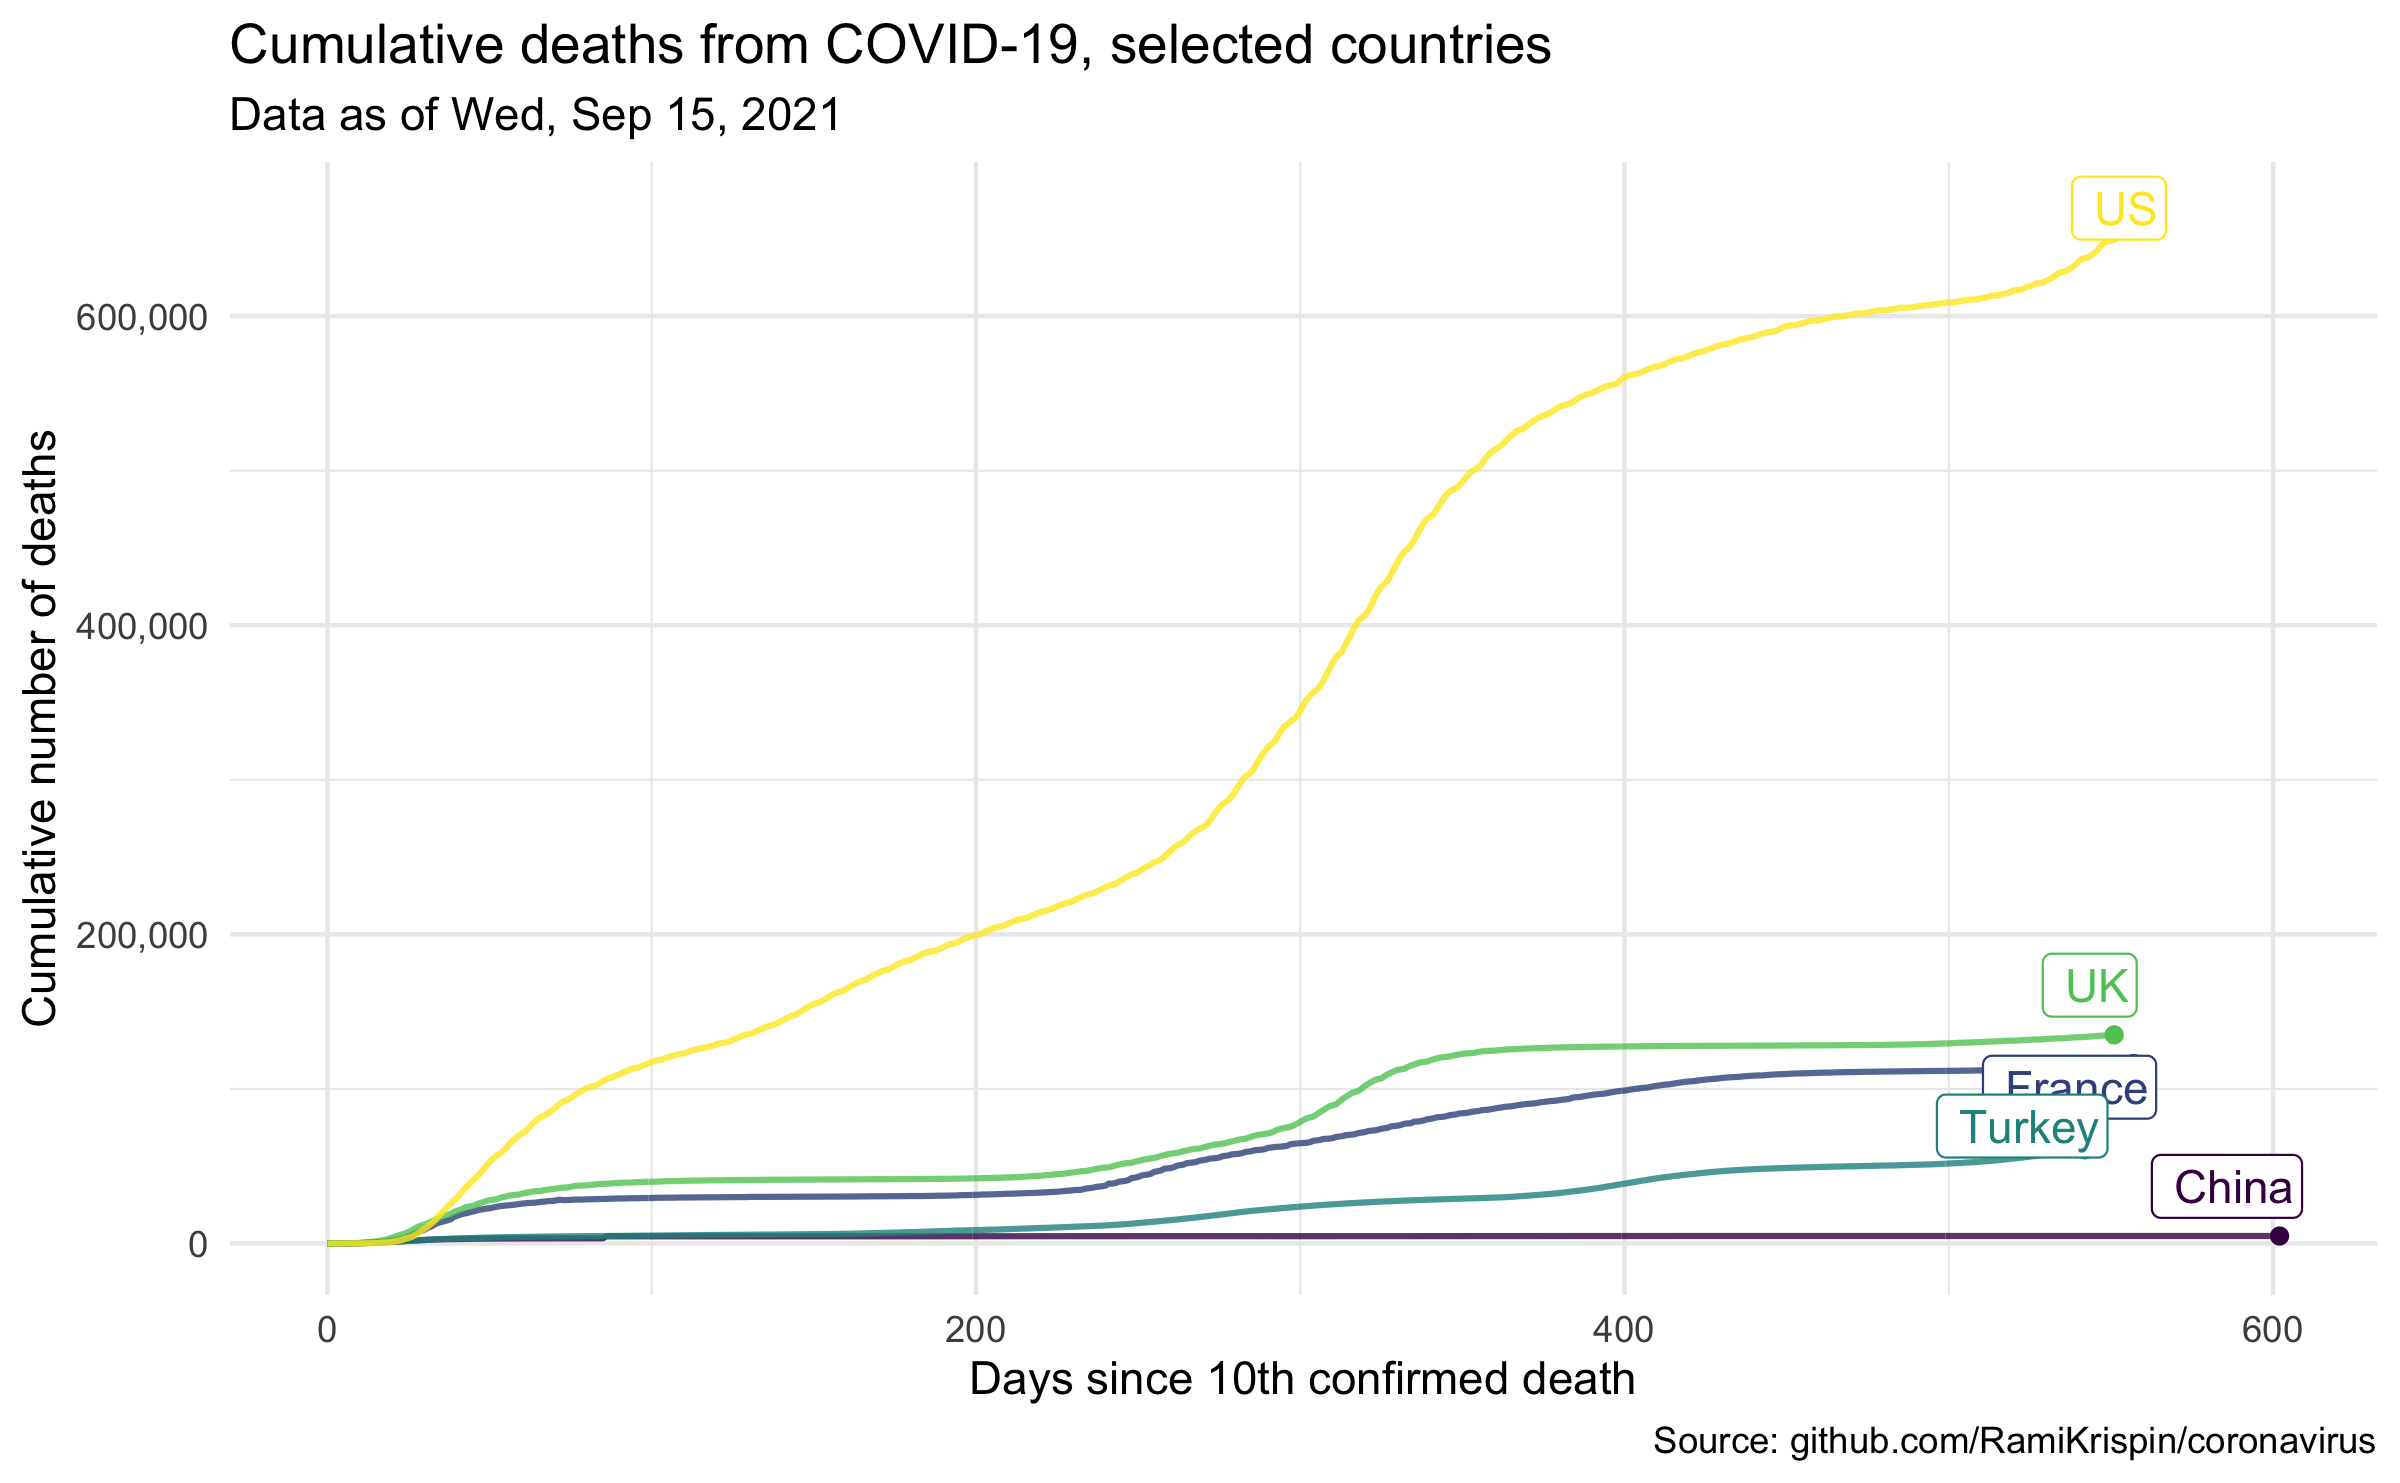
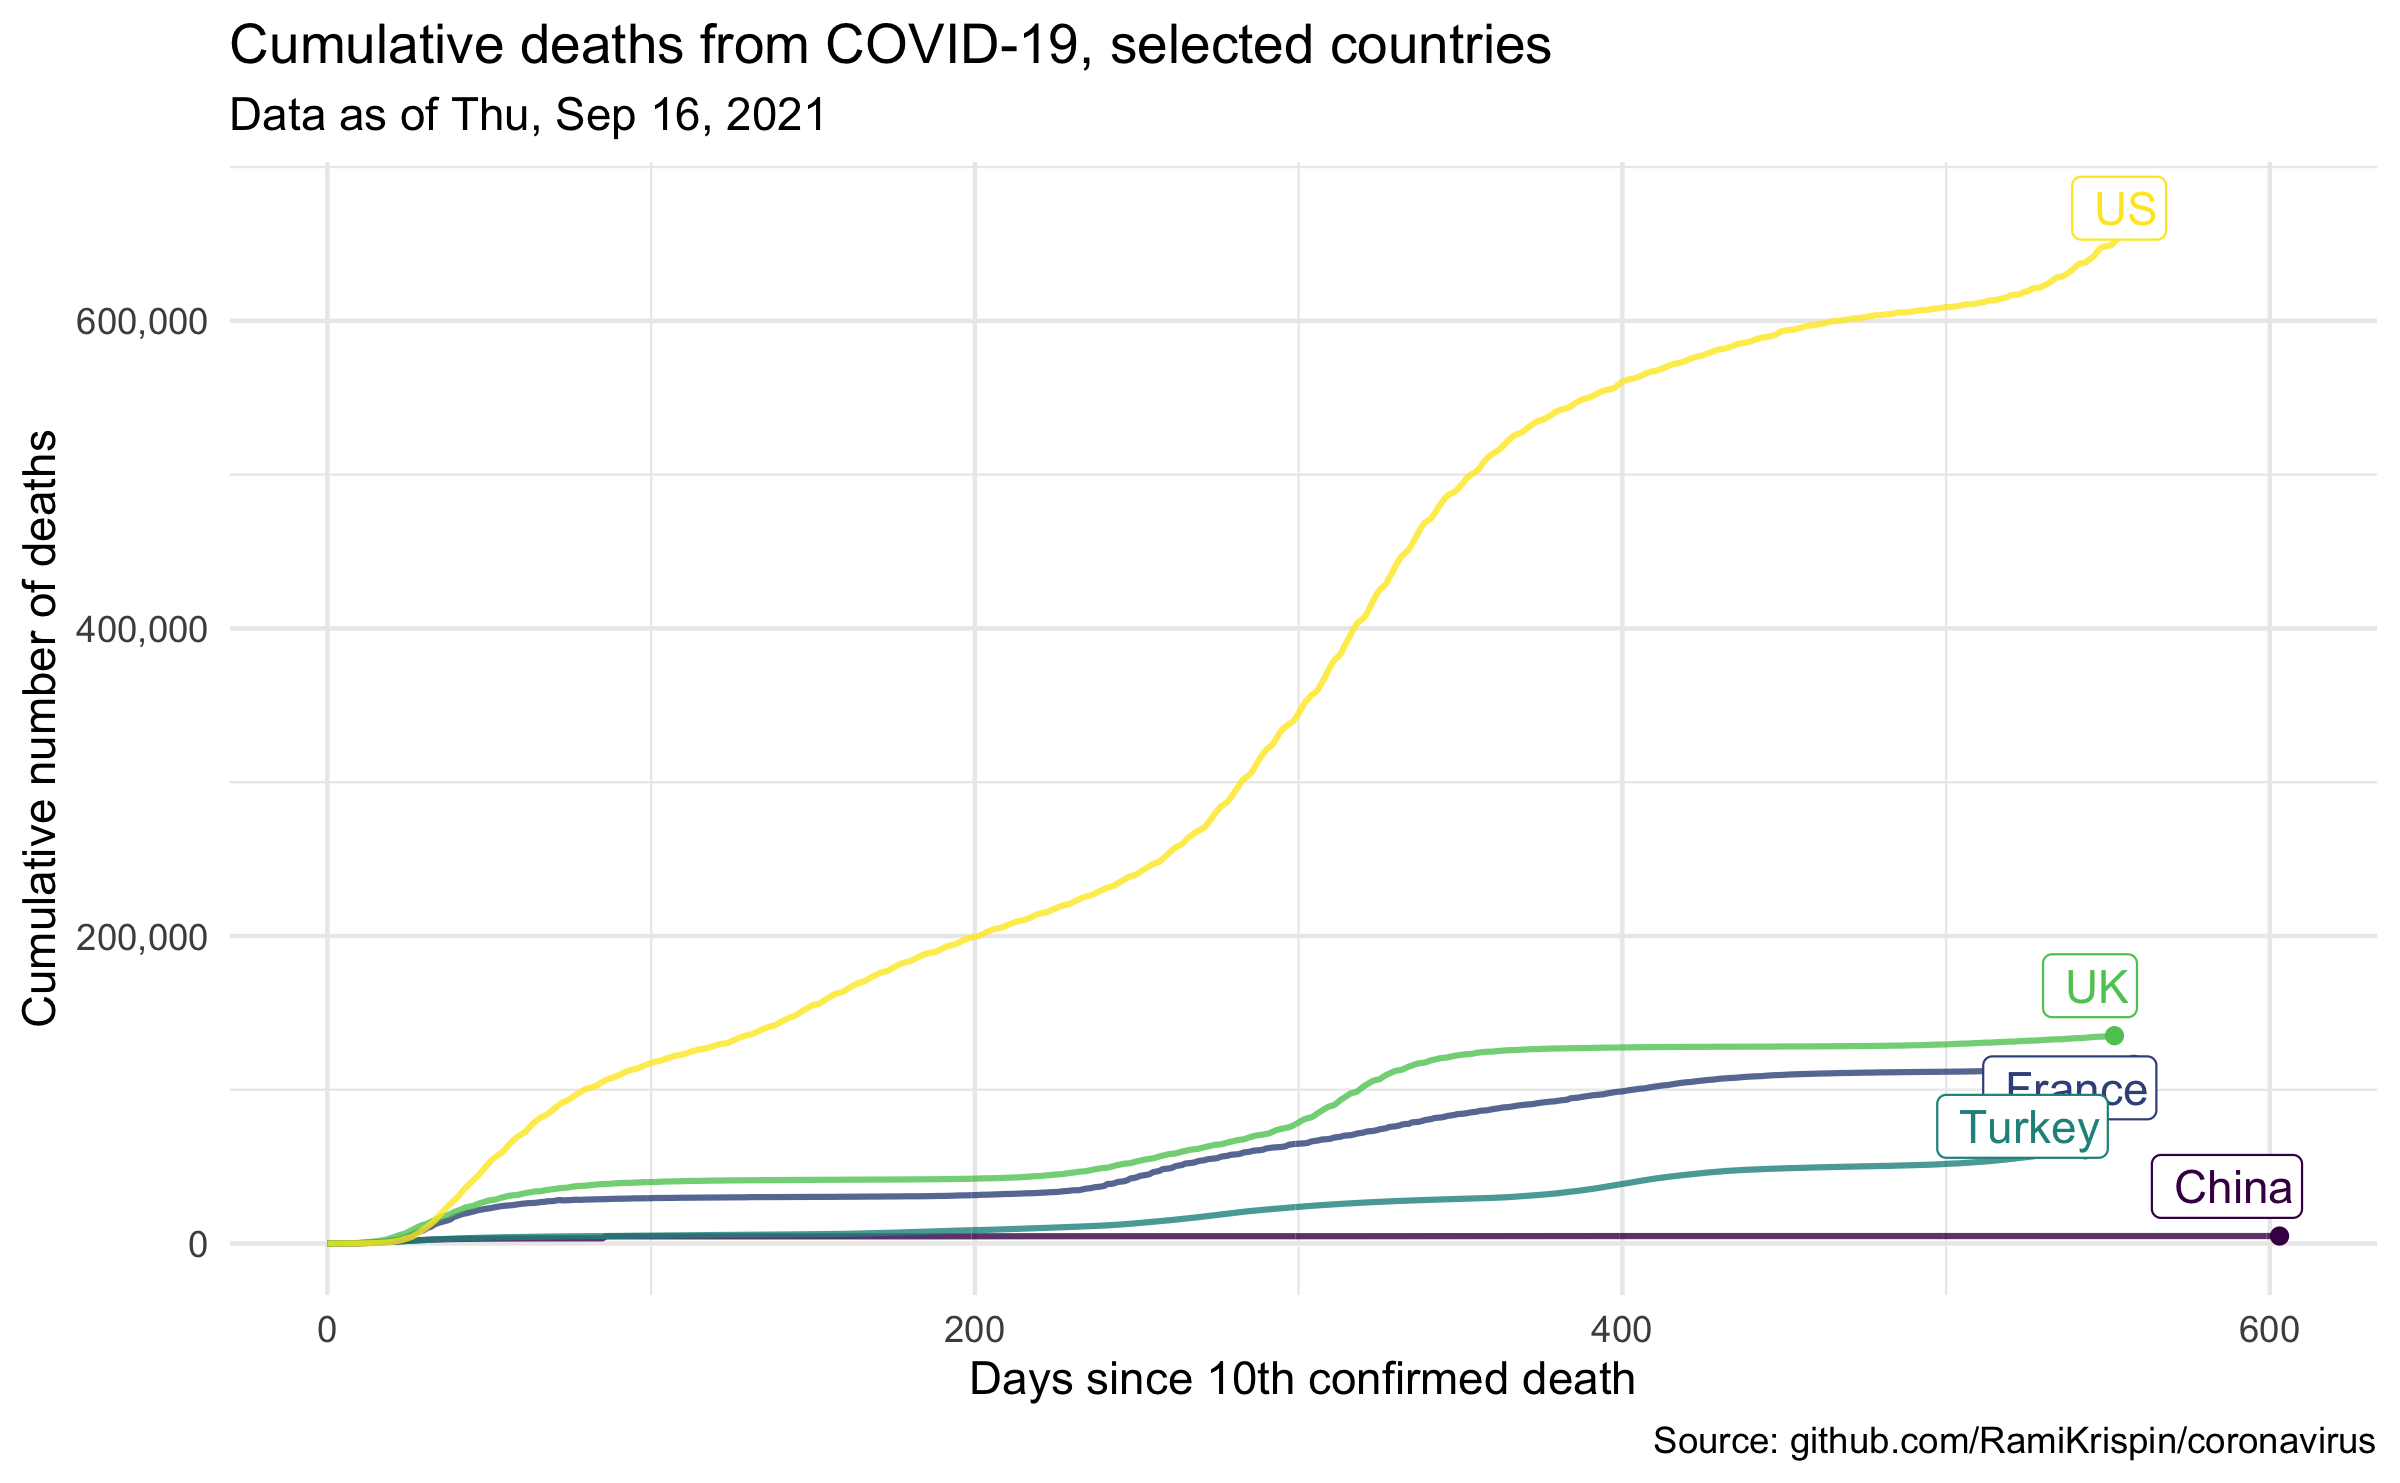
updating coronavirus data to include yesterday

diff --git a/docs/slides/week-04/w4-l03-tidying.html b/docs/slides/week-04/w4-l03-tidying.html
@@ -559,7 +559,7 @@ library(ggrepel) #for writing names on plot
 
 ## Recall the Data
 
-The data frame called `coronavirus` in the coronavirus package provides a daily summary of the Coronavirus (COVID-19) cases by country. Each row in the data frame represents a country (or, where relevant, state/province).  Note that the data provided in this package provides daily number of deaths, confirmed cases, and recovered cases. Today we will focus on the deaths. 
+The data frame called `coronavirus` in the coronavirus package provides a daily summary of the Coronavirus (COVID-19) cases by country. Each row in the data frame represents a country (or, where relevant, state/province).  Note that the data provided in this package provides daily number of deaths, confirmed cases, and recovered cases. Today we will focus on deaths. 
 
 We will start by making our selection for the countries we want to explore.
 
@@ -652,7 +652,7 @@ as_of_date &lt;- country_data %&gt;%
 as_of_date_formatted &lt;- glue("{wday(as_of_date, label = TRUE)}, {month(as_of_date, label = TRUE)} {day(as_of_date)}, {year(as_of_date)}")
 ```
 
-These data are as of Wed, Sep 15, 2021.
+These data are as of Thu, Sep 16, 2021.
 
 ---
 

diff --git a/static/slides/week-04/w4-l03-tidying.html b/static/slides/week-04/w4-l03-tidying.html
@@ -559,7 +559,7 @@ library(ggrepel) #for writing names on plot
 
 ## Recall the Data
 
-The data frame called `coronavirus` in the coronavirus package provides a daily summary of the Coronavirus (COVID-19) cases by country. Each row in the data frame represents a country (or, where relevant, state/province).  Note that the data provided in this package provides daily number of deaths, confirmed cases, and recovered cases. Today we will focus on the deaths. 
+The data frame called `coronavirus` in the coronavirus package provides a daily summary of the Coronavirus (COVID-19) cases by country. Each row in the data frame represents a country (or, where relevant, state/province).  Note that the data provided in this package provides daily number of deaths, confirmed cases, and recovered cases. Today we will focus on deaths. 
 
 We will start by making our selection for the countries we want to explore.
 
@@ -652,7 +652,7 @@ as_of_date &lt;- country_data %&gt;%
 as_of_date_formatted &lt;- glue("{wday(as_of_date, label = TRUE)}, {month(as_of_date, label = TRUE)} {day(as_of_date)}, {year(as_of_date)}")
 ```
 
-These data are as of Wed, Sep 15, 2021.
+These data are as of Thu, Sep 16, 2021.
 
 ---
 
